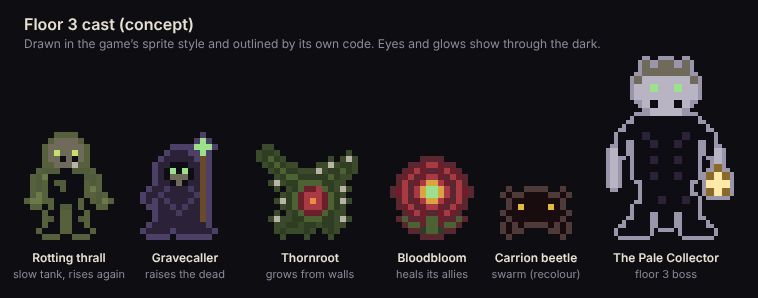
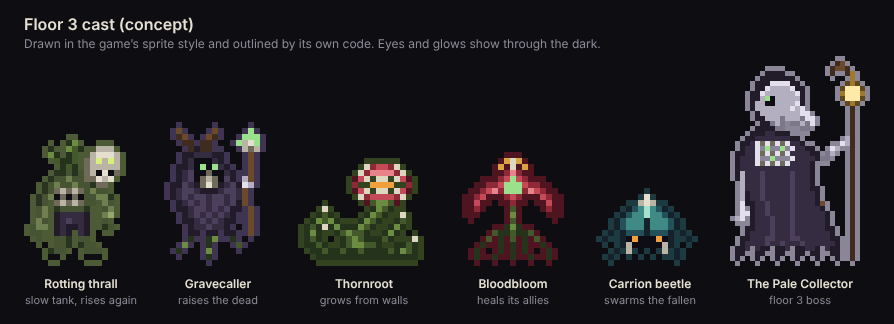
Redesign the floor 3 concept cast with its own look
The first concepts reused floors 1 and 2: the thrall was a recoloured
bone soldier, the beetle a recoloured skitter, the Collector the Bone
Regent's shape at double size. Every floor 3 design is now its own:

- Rotting thrall: hunched and lopsided, one arm dragging, roots
  bursting from its back.
- Gravecaller: floating, branch-antler crown, root tendrils, a staff
  topped with a skull in green fire.
- Thornroot: a vine serpent from the wall with a thorn-toothed
  flytrap jaw.
- Bloodbloom: a drooping blood lily on root legs, its core glowing.
- Carrion beetle: horned, iridescent shell, mandibles, six legs.
- The Pale Collector: gaunt and hunched, a bird-skull mask, a ribcage
  cage of trapped souls, a hooked pole with its lantern; drawn at full
  detail instead of a 2x blow-up.
- Corpse: a moss-covered body with roots.

Three or four shades per material instead of flat dark bodies, so the
floor looks different from the moment you arrive. floor-3.md drops the
recolour plan; wiki-images.js no longer makes the recoloured beetle.

Claude-Session: https://claude.ai/code/session_012TQcrycmCj7zmVkYuEq7Y7

diff --git a/tools/concept-floor3.js b/tools/concept-floor3.js
@@ -11,101 +11,163 @@ const fs=require('node:fs'),path=require('node:path'),http=require('node:http');
 const {chromium}=require('playwright');
 const ROOT=path.join(__dirname,'..'),OUT=path.join(ROOT,'docs','design','img');
 
-// ---- the cast. '.' is empty; o, O and L also go on the eye layer, so they glow through the dark.
-const PAL={'#':'#0d0d13','+':'#6f6a5a','B':'#b9b4a6','g':'#4f5b3a','G':'#6c7a4a','r':'#2b2238','R':'#463a5c','v':'#2f3d22','V':'#4d6233',
-  't':'#b9b4a6','p':'#6b1f2a','P':'#a83a46','y':'#d9a441','W':'#b8b4c4','w':'#6b4a2c','l':'#8a6a2a','o':'#0d0d13','O':'#2f3d22','L':'#8a6a2a'};
+// Floors 1 and 2 are flat dark bodies with bone accents; floor 3 gets its own look: three or four shades per material
+// and roots running through the whole cast. o, O, L and Y also go on the eye layer, so they glow through the dark.
+const PAL={
+  '#':'#0d0d13',                                   // deepest shadow
+  'a':'#283320','b':'#465434','c':'#6f8050','C':'#98a86a',   // rotting flesh, dark to light
+  '+':'#6f6a5a','B':'#b9b4a6','K':'#e4dfcf',       // bone
+  'd':'#211b2a','e':'#352c42','f':'#4b3f5c',       // cloth and robes
+  'v':'#26331c','V':'#43592c','X':'#6c8c42',       // roots and vines
+  'w':'#3e2c1e','W':'#6b4a2c',                     // wood
+  't':'#ddd6c0',                                   // thorns
+  'p':'#4e1520','P':'#8e2a38','Q':'#c44a58','R':'#e9838b',   // petals
+  'y':'#d9a441',                                   // pollen
+  's':'#14232b','S':'#24505a','T':'#3f8a84','U':'#a6e0cf',   // beetle shell
+  'm':'#7c7789','M':'#b3afc0','N':'#e3dfec',       // the Collector's pale skin and bone
+  'k':'#a0782c','l':'#5e4620',                     // lantern brass
+  'o':'#0d0d13','O':'#283320','L':'#c99a3a','Y':'#5e4620',   // glowing parts: base colour under the glow
+};
 const CAST={
-  thrall:{name:'Rotting thrall',eye:'#c8e06a',glow:{},line:'#56603d',r:6,scale:1,map:[
-    '....++++.....',
-    '...++++++....',
-    '...+o++o+....',
-    '...++#+#+....',
-    '....+++B.....',
-    '..ggg##ggg...',
-    '.gG######gg..',
-    '.g.#gg###.g..',
-    '.g.##g###.G..',
-    '.G.######..g.',
-    'GG..####...gG',
-    '....#gg#.....',
-    '...##..##....',
-    '...g#..#g....',
-    '...##..##....',
-    '..###..###...']},
-  gravecaller:{name:'Gravecaller',eye:'#9be08a',glow:{O:'#9be08a'},line:'#4d4066',r:6,scale:1,map:[
-    '.........O...',
-    '........OOO..',
-    '....rrr..O...',
-    '...rrrrr.w...',
-    '..rr###rrw...',
-    '..r#o#o#rw...',
-    '..r#+++#rw...',
-    '..rr#+#rrw...',
-    '.rrRrrrRrw...',
-    'rrRrrrrrRw...',
-    'r.rRrrrRrw...',
-    '..rrRrRrrw...',
-    '..rrrRrrrw...',
-    '..rrrrrrrw...',
-    '.rrrrrrrrr...',
-    'rrrr.rrrrrr..']},
-  thornroot:{name:'Thornroot',eye:'#f08a3c',glow:{},line:'#3b4a2a',r:8,scale:1,map:[
-    'vv..............',
-    'vVv...........t.',
-    '.vVv.......t.vv.',
-    '..vVvv...t.vvVv.',
-    '...vVVvvvvvVv...',
-    '..t.vvVVVVvv....',
-    '.....vVppPVv.t..',
-    '....vVpPPPpVv...',
-    '...tvVpPoPpVvt..',
-    '....vVpPPPpVv...',
-    '.....vVpppVv....',
-    '..t..vvVVVvv.t..',
-    '....vv.vv.vv....',
-    '...v...v...v....']},
-  bloodbloom:{name:'Bloodbloom',eye:'#9be08a',glow:{},line:'#5a2630',r:6,scale:1,map:[
-    '....pPPp....',
-    '..pPp..pPp..',
-    '.pP.pPPp.Pp.',
-    '.P.pPyyPp.P.',
-    'pP.PyooyP.Pp',
-    'pP.PyooyP.Pp',
-    '.P.pPyyPp.P.',
-    '.pP.pPPp.Pp.',
-    '..pPp..pPp..',
-    '.V..pVVp..V.',
-    '..VV.VV.VV..',
-    '....vVVv....']},
-  collector:{name:'The Pale Collector',eye:'#9be08a',glow:{L:'#ffe9a8'},line:'#9a95aa',r:15,scale:2,map:[
-    '.....+.++.+.....',
-    '.....++++++.....',
-    '....+WWWWWW+....',
-    '....WWoWWoWW....',
-    '....WWWWWWWW....',
-    '.....W#WW#W.....',
-    '......WWWW......',
-    '....########....',
-    '...##########...',
-    '..###r####r###..',
-    '..#.##r##r##.#..',
-    '.W#.########.#W.',
-    '.W..##r##r##..W.',
-    '.W..########..l.',
-    '.W..##r##r##.lLl',
-    '.W...######..LLL',
-    '.....######..lLl',
-    '.....##r##r#....',
-    '....########....',
-    '....##.##.##....',
-    '...###.##.###...',
-    '..####....####..']},
-  corpse:{name:'Corpse',eye:'#000000',glow:{},line:'#4a4638',r:5,scale:1,map:[
-    '..++++........',
-    '.+#++#+.#####.',
-    '.++++++######+',
-    '..+#+#..#####.',
-    '.........+..+.']},
+  thrall:{name:'Rotting thrall',eye:'#d6f07a',glow:{},line:'#4d5a36',r:6,map:[
+    '......vX.........',
+    '...v..XVv..BBB...',
+    '...Xv.vV..BKKKB..',
+    '....VvvV.+BoBoB..',
+    '.....vVv.+BBBBB..',
+    '....aabvb+B#K#+..',
+    '...abbcbb++KBK...',
+    '..abcbbcbba++....',
+    '..ab+B+B+bcbb....',
+    '.abc#+#+#bbcca...',
+    '.ab.+B+B+bb.cb...',
+    '.bc.abbbba..bc...',
+    '.bc.deeeed..cC...',
+    '.cb.defeed..b....',
+    'bcc.dedded..ab...',
+    'bb..ded.ed.......',
+    '.b..bba.bb.......',
+    '....bba.abb......',
+    '...abb...bbb.....',
+    '...##....###.....']},
+  gravecaller:{name:'Gravecaller',eye:'#9be08a',glow:{O:'#9be08a'},line:'#3f3452',r:6,map:[
+    '.W.....W.....O..',
+    '.wW...Ww....OOO.',
+    '..ww.ww....OBKO.',
+    '...wdww.....B+B.',
+    '..ddeeedd....W..',
+    '..de###ed....W..',
+    '.dde#o#oed...W..',
+    '.def##+##ed..W..',
+    '.def#+B+#fd.MW..',
+    'ddfed+K+defdNM..',
+    'deffedddeffeW...',
+    'defeffeffefeW...',
+    '.defefeffefdW...',
+    '.ddeffefefdd.W..',
+    '..defefefed..W..',
+    '..ddefefedd..W..',
+    '...deefeed...W..',
+    '...dd.dd.dd..W..',
+    '...v..vX..v.....',
+    '..X...v....V....',
+    '.v....X.........',
+    '......v.........']},
+  thornroot:{name:'Thornroot',eye:'#f2a03c',glow:{},line:'#33421f',r:8,map:[
+    '..........tPQQPt....',
+    '.........tPRRRRPt...',
+    '........pQt.tt.tQp..',
+    '........P..oooo..P..',
+    '........pQt.tt.tQp..',
+    '.........tPQQQQPt...',
+    '..........pVXXVp....',
+    '...t.......vXVv.....',
+    '..vVv.....vXVv..t...',
+    '.vXVXv...vXVv..vV...',
+    'vVvtvXvvvXVv..vXv...',
+    'vXv..vVXVVv..vXv....',
+    'vVv...vVXVvvvVv...t.',
+    'vvVv..vVXXVVv..vvVv.',
+    '.vvVvvVvvVvvvvVvXVv.',
+    '..vvvvvvvvvvvvvvvvv.']},
+  bloodbloom:{name:'Bloodbloom',eye:'#9be08a',glow:{O:'#9be08a'},line:'#4e1520',r:6,map:[
+    '.......yty.......',
+    '......y.t.y......',
+    '.......PRP.......',
+    '.....pPQOQPp.....',
+    '...pPPQOOOQPPp...',
+    '..pPQRPOOOPRQPp..',
+    '.pPQp.pPQPp.pQPp.',
+    '.pQp...pPp...pQp.',
+    '.pP.....V.....Pp.',
+    '.p......X......p.',
+    '........V........',
+    '.......vXv.......',
+    '.....VvvVvvV.....',
+    '....V.v.V.v.V....',
+    '...v..v.v.v..v...',
+    '..v...v.v.v...v..',
+    '..v..v..v..v..v..']},
+  beetle:{name:'Carrion beetle',eye:'#f2a03c',glow:{},line:'#1c3a40',r:4,map:[
+    '.......K........',
+    '......BKB.......',
+    '....sSTUTSs.....',
+    '...sSTTUTTSs....',
+    '..sSTTTsTTTSs...',
+    '..sSTTTsTTTSs...',
+    '.s.sSSSsSSSs.s..',
+    's..s#o###o#s..s.',
+    '...sB#####Bs....',
+    '..s.B.#.#.B.s...',
+    '.s..........s...']},
+  collector:{name:'The Pale Collector',eye:'#9be08a',glow:{O:'#9be08a',L:'#ffe9a8'},line:'#8a8698',r:15,map:[
+    '....................wW....',
+    '...................wWWw...',
+    '......dddd.........w..wk..',
+    '.....ddddddd...........k..',
+    '....dddNNNNdd.........lkl.',
+    '....ddNMMMMNdd.......lLLLl',
+    '...ddNMMMMMMNd.......kLLLk',
+    '...ddMo#MMMMMd.......lLLLl',
+    '...dMM##MMMMNd........lkl.',
+    '...dMMMMMMMNMN.........w..',
+    '....dMMMMMMMMNN........w..',
+    '....ddMMMmMMMmNN.......w..',
+    '.....ddmMm.mmMmN.......w..',
+    '....ddddmm...mm........w..',
+    '...dddeeddd............w..',
+    '..ddeeeeeeedd.........Mw..',
+    '.ddeN+N+N+Need.......NMw..',
+    '.deeN.O..O.Needd...NM..w..',
+    'ddeeN+N+N+Neeeedd.mM...w..',
+    'deeeN..O...Neeeedmm....w..',
+    'deeeN+N+N+Neeeed.......w..',
+    'deeeeeeeeeeeeeed.......w..',
+    'dMeeefeeeeefeeed.......w..',
+    'dMeeefeeeeefeeed.......w..',
+    '.Meeefeeeeefeeed.......w..',
+    '.Meeefeeeeefeeedd......w..',
+    '.Mdeefeeeeefeeeed......w..',
+    '.Mdeefeeeeefeeeed......w..',
+    '.NddeefeeeefeeeedW.....w..',
+    '.N.deefeeeefeeeeed.....w..',
+    '.NNdeefeeeefeeeeeed....w..',
+    'MN.deeefeeefeeeeeed....w..',
+    '...deeefeeefeeeeeed....w..',
+    '..ddeeefeeefeeeeeedd...w..',
+    '..deeeefeeefeeeeeeed...w..',
+    '.ddeeeffeeeffeeeeeedd..w..',
+    '.deeeefeefeeefeeeeeed..w..',
+    'dde.edd.dde.ddeed.edd..w..',
+    'dd..dd..dd..dd.dd..dd..w..',
+    'd...d...d...d...d...d..w..']},
+  corpse:{name:'Corpse',eye:'#000000',glow:{},line:'#3a4630',r:5,map:[
+    '.....V.v........',
+    '..ab+BB+.vXv....',
+    '.abbB#B+bbbbaa..',
+    '.abb+BB+bbcbbbc.',
+    '..aa..aaab.bb.b.',
+    '.....v...v..V...']},
 };
 
 (async()=>{
@@ -124,23 +186,20 @@ const CAST={
   // ---- teach the page the new cast and the floor 3 look (in this page only)
   await page.evaluate(([CAST,PAL])=>{
     for(const [type,c] of Object.entries(CAST)){
-      const w=c.map[0].length*c.scale+2,h=c.map.length*c.scale+2,[b,bx]=mk(w,h),[e,ex]=mk(w,h);
+      c.scale=1;const w=c.map[0].length+2,h=c.map.length+2,[b,bx]=mk(w,h),[e,ex]=mk(w,h);
       c.map.forEach((row,y)=>[...row].forEach((ch,x)=>{if(ch==='.')return;
         bx.fillStyle=PAL[ch];bx.fillRect(1+x*c.scale,1+y*c.scale,c.scale,c.scale);
         const glow=ch==='o'?c.eye:c.glow[ch];if(glow){ex.fillStyle=glow;ex.fillRect(1+x*c.scale,1+y*c.scale,c.scale,c.scale);}}));
       IMG['enemies/'+type]=b;IMG['enemies/'+type+'_eyes']=e;
       ETYPES[type]={name:c.name,hp:1,dmg:1,speed:1,r:c.r,xp:1,eye:c.eye,line:c.line};
     }
-    // carrion beetle: the skitter, recoloured
-    {const s=IMG['enemies/skitter'],[b,bx]=mk(s.width,s.height);bx.filter='hue-rotate(95deg) saturate(1.6) brightness(1.15)';bx.drawImage(s,0,0);
-      IMG['enemies/beetle']=b;IMG['enemies/beetle_eyes']=IMG['enemies/skitter_eyes'];ETYPES.beetle=Object.assign({},ETYPES.skitter,{name:'Carrion beetle',line:'#4f3a3a'});}
     // the floor 3 stone: older, rootbound
     THEMES[2]={f:['#1b1a15','#1d1c16','#191812'],grid:'#14130f',speck:'#2b2a20',crack:'#0d0c09',face:'#2c2a20',brick:'#211f17',top:'#4a4433',wall:'#1a1913',edge:'#29271d',bones:'#55513f'};
   },[CAST,PAL]);
 
   // ---- 1. the line-up
   const lineup=await page.evaluate(()=>{
-    const order=[['thrall',6],['gravecaller',6],['thornroot',6],['bloodbloom',6],['beetle',6],['collector',4]],pad=24,gap=26,top=56;
+    const order=[['thrall',6],['gravecaller',6],['thornroot',6],['bloodbloom',6],['beetle',6],['collector',5]],pad=24,gap=26,top=56;
     const items=order.map(([t,s])=>{const sp=enemySprite(t,false,null);const[c,x]=mk(sp.fw,sp.fh);x.drawImage(sp.c,0,0);if(sp.eyes)x.drawImage(sp.eyes,0,0);return{t,s,c,w:sp.fw*s,h:sp.fh*s};});
     const W=pad*2+items.reduce((a,i)=>a+i.w+gap,-gap),H=top+Math.max(...items.map(i=>i.h))+58;
     const [cv,x]=mk(W,H);x.fillStyle='#0d0d12';x.fillRect(0,0,W,H);
@@ -150,7 +209,7 @@ const CAST={
     for(const i of items){x.imageSmoothingEnabled=false;x.drawImage(i.c,px,base-i.h,i.w,i.h);
       x.font='600 12px system-ui,Segoe UI,Helvetica,Arial,sans-serif';x.fillStyle='#e6e1d3';x.textAlign='center';x.fillText(ETYPES[i.t].name,px+i.w/2,base+22);
       x.font='11px system-ui,Segoe UI,Helvetica,Arial,sans-serif';x.fillStyle='#8d8b98';
-      x.fillText({thrall:'slow tank, rises again',gravecaller:'raises the dead',thornroot:'grows from walls',bloodbloom:'heals its allies',beetle:'swarm (recolour)',collector:'floor 3 boss'}[i.t],px+i.w/2,base+38);
+      x.fillText({thrall:'slow tank, rises again',gravecaller:'raises the dead',thornroot:'grows from walls',bloodbloom:'heals its allies',beetle:'swarms the fallen',collector:'floor 3 boss'}[i.t],px+i.w/2,base+38);
       x.textAlign='left';px+=i.w+gap;}
     return cv.toDataURL('image/png');
   });
@@ -177,7 +236,7 @@ const CAST={
           if(h<.08){x.fillStyle='#b9b4a6';x.fillRect(px+(h*700%12|0),py+5,1,1);}}}}
     G.thorns=(tx,ty,w,h)=>{const x=G.mapCv.getContext('2d');for(let j=0;j<h*TILE;j+=2)for(let i=0;i<w*TILE;i+=2){const q=hash2(tx*16+i,ty*16+j,7);
       if(q<.45){x.fillStyle=q<.2?'#2f3d22':'#4d6233';x.fillRect(tx*TILE+i,ty*TILE+j,2,1);}else if(q>.93){x.fillStyle='#b9b4a6';x.fillRect(tx*TILE+i,ty*TILE+j,1,1);}}};
-    const E=(type,dx,dy,o={})=>{const e=Object.assign(makeEnemy(type==='beetle'?'skitter':'skitter',P.x+dx,P.y+dy,1,1,!!o.elite),{type,r:ETYPES[type].r,state:o.state||'chase',face:o.face||-1,dir:0,ph:o.ph||0},o);G.enemies.push(e);return e;};
+    const E=(type,dx,dy,o={})=>{const e=Object.assign(makeEnemy('skitter',P.x+dx,P.y+dy,1,1,!!o.elite),{type,r:ETYPES[type].r,state:o.state||'chase',face:o.face||-1,dir:0,ph:o.ph||0},o);G.enemies.push(e);return e;};
   `;
   // a floor 3 room: thralls in front, a Gravecaller raising a corpse behind them, a Bloodbloom healing, a Thornroot lashing from the wall
   await scene('floor3-scene-room.png',new Function(common+`

diff --git a/tools/wiki-images.js b/tools/wiki-images.js
@@ -39,9 +39,6 @@ const ROOT=path.join(__dirname,'..'),OUT=path.join(ROOT,'docs','wiki','img'),DES
       return frame(c,0,0,s.fw,s.fh,scale);};
     for(const t of Object.keys(ETYPES))if(t!=='boss'){out['enemy-'+t]=enemy(t,false,null,6);out['enemy-'+t+'-elite']=enemy(t,true,null,6);}
     out['boss-warden']=enemy('boss',false,null,5);out['boss-regent']=enemy('boss',false,'skelknight',5);
-    // the floor 3 concept: a carrion beetle is a skitter in new colours
-    {const s=enemySprite('skitter',false,null),c=document.createElement('canvas');c.width=s.fw;c.height=s.fh;const x=c.getContext('2d');
-      x.filter='hue-rotate(95deg) saturate(1.6) brightness(1.15)';x.drawImage(s.c,0,0);x.filter='none';x.drawImage(s.eyes,0,0);out['concept-beetle']=frame(c,0,0,s.fw,s.fh,6);}
     // item icons, as the bag shows them
     const icon=it=>{const c=document.createElement('canvas');c.width=c.height=24;drawItemIcon(c,it);return frame(c,0,0,24,24,4,0);};
     for(const t of Object.keys(WTYPES))if(t!=='grimoire')out['item-'+t]=icon({slot:'weapon',type:t,tint:WTYPES[t].ranged?BOWS[0]:BLADES[0],rarity:0});
@@ -59,7 +56,7 @@ const ROOT=path.join(__dirname,'..'),OUT=path.join(ROOT,'docs','wiki','img'),DES
     out['drop-item']=ground((x,X,Y)=>{x.fillStyle='#050508';x.fillRect(X-3,Y-1,7,3);x.fillRect(X-1,Y-3,3,7);x.fillStyle=RARITY[2].color;x.fillRect(X-2,Y,5,1);x.fillRect(X,Y-2,1,5);x.fillRect(X-1,Y-1,3,3);x.fillStyle='#fff';x.fillRect(X,Y,1,1);});
     return out;
   });
-  for(const [k,v] of Object.entries(art))save(k.startsWith('concept-')?DESIGN:OUT,k+'.png',v);
+  for(const [k,v] of Object.entries(art))save(OUT,k+'.png',v);
 
   // ---- boss attacks: set up a fight, force one attack, stop while its red warning is on screen, and photograph it
   async function bossShot(name,floor,setup){

diff --git a/docs/design/floor-3.md b/docs/design/floor-3.md
@@ -40,12 +40,12 @@ floor 2 was hard on them: plants burn, and fire stops the dead from rising again
 | **Gravecaller** | priority caster | Keeps its distance and channels for 1.2 s to raise a corpse. A hit interrupts the channel. Blinks away when you close in (on a cooldown). Low health. | Rush it, or interrupt with ranged hits. |
 | **Thornroot** | stationary hazard | Grows from wall faces next to rooms and corridors. Lashes along a telegraphed line. Cannot be knocked back. Takes double damage from fire. | Read the line, burn it, or go around. |
 | **Bloodbloom** | healer | A rooted flower that pulses a visible green ring every 4 s, healing nearby enemies. Fragile. | Kill it first, or the fight drags on. |
-| Carried over | filler | Bone archers (fewer than floor 2), and skitters recoloured as carrion beetles. | As before. |
+| **Carrion beetle** | swarm | Horned beetles with iridescent shells that pour in around the fallen: fast, in groups, fragile. | Wide swings; keep moving so they come in a line. |
+| Carried over | filler | Bone archers, fewer than on floor 2. | As before. |
 
-<img src="../wiki/img/enemy-skitter.png" alt="Skitter as it is today" height="96"> → <img src="img/concept-beetle.png" alt="Carrion beetle concept: the skitter recoloured" height="96"><br><sub>The skitter today, and a carrion beetle made by recolouring it (concept)</sub>
-
-The beetles are a colour swap of an existing sprite (the tint system does this for free). That's the cheap way to
-fill out a roster.
+Every floor 3 enemy has its own design rather than a recolour of floors 1 and 2. A new floor should look new the
+moment you arrive, and the shared roots tie the cast to the floor's story. Recolours remain the cheap way to make
+*elite* or later "heavenly" variants of these designs.
 
 Elite Gravecallers raise two corpses at once.
 
@@ -107,7 +107,8 @@ farms forever. Uniques are never sold in shops.
    wall-face tiles next to floor), healing pulses.
 5. **The thorn tile.**
 6. **The Pale Collector.**
-7. **Art:** four enemies, the boss and a tileset, via `tools/make_sprites.py`. Beetles are a recolour.
+7. **Art:** five enemies, the boss, the corpse and a tileset, via `tools/make_sprites.py`. The concept maps in
+   `tools/concept-floor3.js` are the starting point; the game versions also need walk and attack frames.
 
 Steps 1 to 3 are worth doing before any content: every later floor needs them. Rough size: steps 1 to 3 take
 about a week; steps 4 to 7 another one to two, with the art as the long pole.
